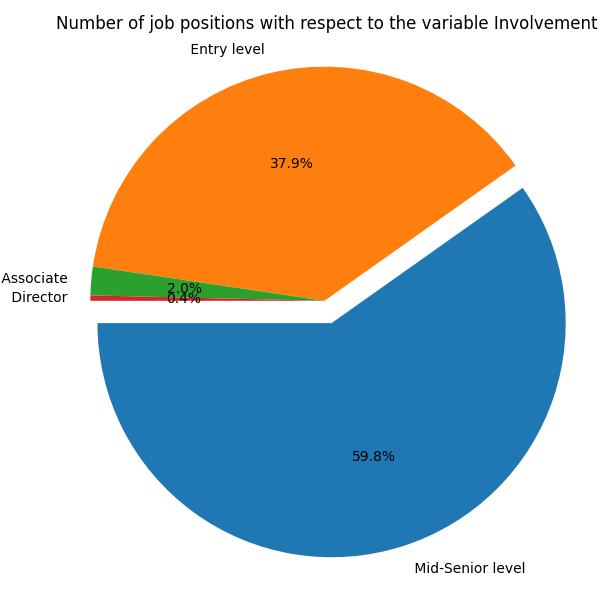
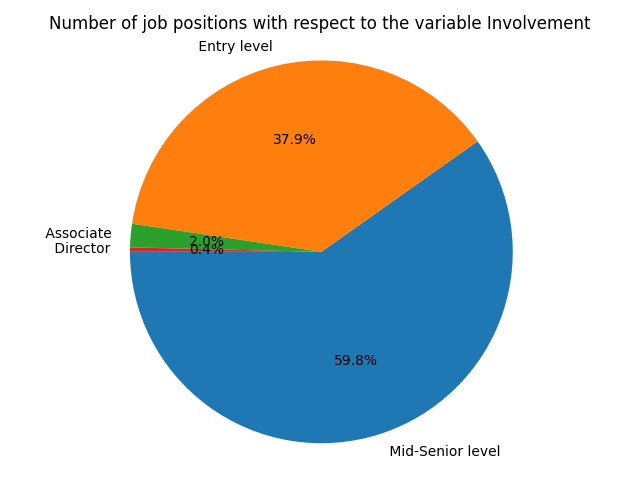
changes

diff --git a/main.py b/main.py
@@ -2,6 +2,8 @@
 import pandas as pd
 import polars as pl
 import matplotlib.pyplot as plt
+import plotly.express as px
+
 
 
 # Read Dataset and exploring
@@ -24,14 +26,14 @@ def count_variable(path, variable):
 def pie_plot(path, variable):
     df = pd.read_csv(path)
     category_count = df[variable].value_counts()
-    plt.figure(figsize=(6, 6))
-    explode = (0.1, 0, 0, 0)
+ #   plt.figure(figsize=(6, 6))
+    #explode = (0.1, 0, 0, 0)
     plt.pie(
         category_count,
         labels=category_count.index,
         autopct="%1.1f%%",
         startangle=180,
-        explode=explode,
+     #   explode=explode,
     )
     plt.title(
         "Number of job positions with respect to the variable {0} ".format(variable)
@@ -109,17 +111,16 @@ def hist_plot(path, variable):
 
 
 if __name__ == "__main__":
-    path = "LinkedInTechJobsDataset.csv"
-    print(exploring_data(path))
+    print(exploring_data("LinkedInTechJobsDataset.csv"))
     print()
     for i in ["Total_applicants", "Employee_count", "LinkedIn_Followers"]:
-        print(f"The mean of variable {i} is {round(mean_variable(path, i))}.")
+        print(f"The mean of variable {i} is {round(mean_variable('LinkedInTechJobsDataset.csv', i))}.")
     print()
     for i in ["Total_applicants", "Employee_count", "LinkedIn_Followers"]:
-        print(f"The median of variable {i} is {round(median_variable(path, i))}.")
+        print(f"The median of variable {i} is {round(median_variable('LinkedInTechJobsDataset.csv', i))}.")
     print()
     for i in ["Total_applicants", "Employee_count", "LinkedIn_Followers"]:
-        print(f"The count of variable {i} is {round(count_variable(path, i))}.")
+        print(f"The count of variable {i} is {round(count_variable('LinkedInTechJobsDataset.csv', i))}.")
     plt.clf()
     pie_plot("LinkedInTechJobsDataset.csv", "Involvement")
     plt.clf()
